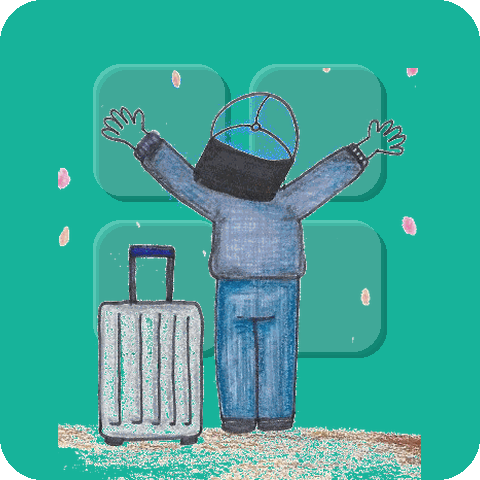
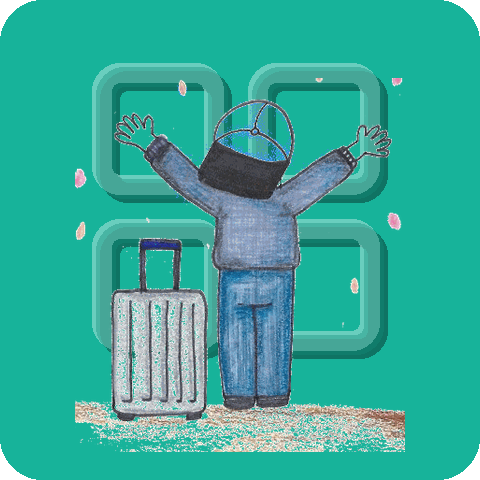
중복되던 사계절 표시 2개를 카드 1세트로 합침 + 로고 음각 테두리 강화
about.html '이름의 의미' 섹션에 같은 4계절이 두 번(뱃지 카드 목록 +
아래 삽화 갤러리) 나오던 중복을 하나로 합쳤다.

- .season 카드 하나에 삽화 이미지 + 계절 이름(좌상단, 굵은 글씨) +
  설명 문구(하단)를 전부 겹쳐 넣음. 이제 스크롤 한 번으로 다 보인다.
- 원형 번호 배지 제거 — 리드 문장에 '왼쪽 위부터 시계 방향'이라고
  이미 설명하고 있어 중복.
- 아래에 따로 있던 .an-illus 삽화 갤러리(같은 4계절, 다른 캡션)는
  완전히 삭제. 해당 CSS도 함께 정리.
- 음각 로고 마크를 '채운 사각형'에서 '두꺼운 테두리 사각형'으로
  다시 그림 — 실제 로고 형태(사각형 4개)를 닮게 하고, 하이라이트/
  그림자 오프셋도 키워 눌린 느�김을 또렷하게 함.
- 캐릭터 크기를 살짝 줄이고 아래 여백을 늘려, 위에 얹는 계절 이름과
  아래 문구가 캐릭터와 겹치지 않게 조정.

검증: 데스크톱 2x2(카드 312px)·모바일 2x2(162px) 모두 4장 정상 로드,
텍스트가 카드 경계 안에 위치, 중복 갤러리 요소 완전히 사라짐,
가로 스크롤 없음, 콘솔 에러 없음.

diff --git a/about.html b/about.html
@@ -9,7 +9,7 @@
   <link rel="alternate" hreflang="en" href="https://nrhoon777.github.io/ddobom-website/en/about.html" />
   <link rel="alternate" hreflang="x-default" href="https://nrhoon777.github.io/ddobom-website/about.html" />
   <link rel="icon" type="image/png" href="assets/img/logo-square.png" />
-  <link rel="stylesheet" href="assets/css/style.css?v=20260811a" />
+  <link rel="stylesheet" href="assets/css/style.css?v=20260811b" />
 </head>
 <body>
   <a href="#main" class="skip-link">본문 바로가기</a>
@@ -295,54 +295,35 @@
           <p class="an-logo__lead">로고의 <strong>네 개의 네모</strong>는 한 사람이 지나온 시간입니다.<br />왼쪽 위에서 시계 방향으로 읽습니다.</p>
           <ol class="season">
             <li class="season__it s-summer">
-              <span class="season__no" aria-hidden="true">1</span>
-              <img class="season__img" src="assets/img/season-summer.png" alt="" loading="lazy" />
-              <b>여름</b><span>암을 만나기 전,<br />가장 건강하던 날</span>
+              <img class="season__img" src="assets/img/season-summer.png"
+                   alt="서핑하는 캐릭터 — 암을 만나기 전, 가장 건강하던 날" loading="lazy" />
+              <span class="season__name">여름</span>
+              <span class="season__cap">암을 만나기 전,<br />가장 건강하던 날</span>
             </li>
             <li class="season__it s-fall">
-              <span class="season__no" aria-hidden="true">2</span>
-              <img class="season__img" src="assets/img/season-autumn.png" alt="" loading="lazy" />
-              <b>가을</b><span>진단을 받고,<br />혼자가 되던 날</span>
+              <img class="season__img" src="assets/img/season-autumn.png"
+                   alt="링거를 끌고 창밖을 보는 캐릭터 — 진단을 받고, 혼자가 되던 날" loading="lazy" />
+              <span class="season__name">가을</span>
+              <span class="season__cap">진단을 받고,<br />혼자가 되던 날</span>
             </li>
             <li class="season__it s-spring">
-              <span class="season__no" aria-hidden="true">4</span>
-              <img class="season__img" src="assets/img/season-spring.png" alt="" loading="lazy" />
-              <b>봄</b><span>그 겨울을 이겨내고<br />맞은 계절</span>
+              <img class="season__img" src="assets/img/season-spring.png"
+                   alt="여행 가방을 두고 두 팔 벌린 캐릭터 — 그 겨울을 이겨내고 맞은 계절" loading="lazy" />
+              <span class="season__name">봄</span>
+              <span class="season__cap">그 겨울을 이겨내고<br />맞은 계절</span>
             </li>
             <li class="season__it s-winter">
-              <span class="season__no" aria-hidden="true">3</span>
-              <img class="season__img" src="assets/img/season-winter.png" alt="" loading="lazy" />
-              <b>겨울</b><span>가장 혹독했던<br />치료의 시간</span>
+              <img class="season__img" src="assets/img/season-winter.png"
+                   alt="병상에 앉은 캐릭터 — 가장 혹독했던 치료의 시간" loading="lazy" />
+              <span class="season__name">겨울</span>
+              <span class="season__cap">가장 혹독했던<br />치료의 시간</span>
             </li>
           </ol>
+          <p class="an-illus-src">
+            여행 포토북 &lsquo;당신을 또 봅니다&rsquo;(2018)의 계절 챕터 삽화를 바탕으로 만들었습니다.<br />
+            &ldquo;암환우가 되기 전 활발했던 여름부터, 극복한 후 새로움의 봄까지.&rdquo;
+          </p>
         </div>
-
-        <!-- 2018년 여행 포토북의 계절 챕터 삽화. 로고의 뜻을 글이 아니라 그림으로 보여준다. -->
-        <figure class="an-illus">
-          <ol class="an-illus__row">
-            <li class="s-summer">
-              <img src="assets/img/ill-summer.jpg" alt="서핑, 등산, 비행기 — 여행 버킷리스트를 그린 그림" loading="lazy" />
-              <b>여름</b><span>가장 건강하던 날</span>
-            </li>
-            <li class="s-fall">
-              <img src="assets/img/ill-autumn.jpg" alt="링거를 끌고 창밖의 가을을 바라보는 그림" loading="lazy" />
-              <b>가을</b><span>진단을 받던 날</span>
-            </li>
-            <li class="s-winter">
-              <img src="assets/img/ill-winter.jpg" alt="병상에서 창밖의 눈사람을 바라보는 그림" loading="lazy" />
-              <b>겨울</b><span>가장 혹독했던 시간</span>
-            </li>
-            <li class="s-spring">
-              <img src="assets/img/ill-spring.jpg" alt="캐리어를 두고 벚꽃 아래 두 팔을 벌린 사람과 새싹 그림" loading="lazy" />
-              <b>봄</b><span>다시 떠나는 날</span>
-            </li>
-          </ol>
-          <figcaption>
-            여행 포토북 &lsquo;당신을 또 봅니다&rsquo;(2018)의 계절 챕터 삽화.<br />
-            &ldquo;포토북의 챕터는 암환우의 주기를 모티브로 제작했어요.
-            암환우가 되기 전 활발했던 여름부터, 극복한 후 새로움의 봄까지로.&rdquo;
-          </figcaption>
-        </figure>
 
         <p class="an-slogan">I SEE U AGAIN &mdash; 당신을 또 봅니다.</p>
       </div>
@@ -502,6 +483,6 @@
     </div>
   </footer>
 
-  <script src="assets/js/main.js?v=20260811a"></script>
+  <script src="assets/js/main.js?v=20260811b"></script>
 </body>
 </html>

diff --git a/assets/css/style.css b/assets/css/style.css
@@ -2275,21 +2275,28 @@ a.video-more { display: grid; place-items: center; text-align: center; color: #f
 .an-logo__mark { width: 150px; height: auto; margin: 0 auto var(--space-4); display: block; background: #fff; border-radius: var(--radius); padding: 10px 14px; }
 .an-logo__lead { text-align: center; font-size: 0.98rem; line-height: 1.8; color: rgba(255,255,255,0.82); margin-bottom: var(--space-6); }
 .an-logo__lead strong { color: #fff; }
-/* 로고와 같은 2×2 배치 — 순서 혼동을 없앤다 */
+/* 로고와 같은 2×2 배치 — 캐릭터 삽화 + 이름표 + 문구를 한 카드 안에 합쳤다.
+   (예전에는 이 배지 목록과 아래 삽화 갤러리가 같은 네 계절을 두 번 보여줘 중복이었다) */
 .season { display: grid; grid-template-columns: 1fr 1fr; gap: var(--space-4); list-style: none; padding: 0; margin: 0;
-  max-width: 480px; margin-inline: auto; }
-.season__it { position: relative; padding: 0; text-align: center; }
-.season__img { width: 100%; aspect-ratio: 1 / 1; border-radius: var(--radius-lg);
-  display: block; margin-bottom: var(--space-3); box-shadow: var(--shadow); }
-.season__no { position: absolute; top: -10px; left: -10px; z-index: 1;
-  width: 26px; height: 26px; border-radius: 50%; display: grid; place-items: center;
-  font-size: 0.8rem; font-weight: 800; color: #fff; box-shadow: 0 2px 6px rgba(0,0,0,0.35); }
-.s-summer .season__no { background: #3f8edc; }
-.s-fall   .season__no { background: #f06f2c; }
-.s-winter .season__no { background: #8455c9; }
-.s-spring .season__no { background: #17b39a; }
-.season__it b { display: block; font-size: 1.05rem; color: #fff; margin-bottom: 4px; }
-.season__it span { display: block; font-size: 0.85rem; line-height: 1.6; color: rgba(255,255,255,0.72); }
+  max-width: 640px; margin-inline: auto; }
+.season__it { position: relative; border-radius: var(--radius-lg); overflow: hidden;
+  aspect-ratio: 1 / 1; box-shadow: var(--shadow); }
+.season__img { position: absolute; inset: 0; width: 100%; height: 100%; object-fit: cover; display: block; }
+.season__name {
+  position: absolute; top: 14px; left: 16px; z-index: 1;
+  font-family: var(--font-head); font-weight: 900; letter-spacing: -0.02em;
+  font-size: clamp(1.5rem, 4.2vw, 2.1rem); color: #fff;
+  text-shadow: 0 2px 3px rgba(0,0,0,0.35), 0 0 22px rgba(0,0,0,0.25);
+}
+.season__cap {
+  position: absolute; left: 16px; right: 16px; bottom: 14px; z-index: 1;
+  font-weight: 700; font-size: 0.92rem; line-height: 1.5; color: #fff;
+  text-shadow: 0 1px 3px rgba(0,0,0,0.4), 0 0 14px rgba(0,0,0,0.3);
+}
+.an-illus-src {
+  max-width: 640px; margin: var(--space-5) auto 0; text-align: center;
+  font-size: 0.85rem; line-height: 1.8; color: rgba(255,255,255,0.65);
+}
 
 @media (max-width: 1023px) {
   .flow { grid-template-columns: 1fr; }
@@ -2318,7 +2325,9 @@ a.video-more { display: grid; place-items: center; text-align: center; color: #f
   .iceberg__art { max-width: 220px; margin: 0 auto; order: -1; }
   .iceberg .iceberg__quote { text-align: center; }
   .an-quote { font-size: 1.35rem; }
-  .season { max-width: 360px; }
+  .season { max-width: 420px; gap: 12px; }
+  .season__name { font-size: 1.35rem; top: 10px; left: 12px; }
+  .season__cap { font-size: 0.8rem; left: 12px; right: 12px; bottom: 10px; }
 }
 
 /* ===================================================================
@@ -3132,43 +3141,15 @@ a.lt-item:hover { transform: translateY(-3px); border-color: var(--c); box-shado
 }
 
 /* ===========================================================
-   66. 포토북 계절 삽화
-   2018년 여행 포토북의 챕터 삽화. 로고의 뜻을 글 대신 그림으로 보여준다.
+   66. (구) 포토북 계절 삽화 갤러리 — .season 카드에 흡수되어 삭제됨.
+   .lt-item__thumb--ill(편지 아카이브 썸네일)만 남겨둔다.
    =========================================================== */
-.an-illus { margin: var(--space-9) auto 0; max-width: 1000px; }
-.an-illus__row {
-  list-style: none; margin: 0; padding: 0;
-  display: grid; grid-template-columns: repeat(4, 1fr); gap: var(--space-4);
-}
-.an-illus__row li { text-align: center; }
-.an-illus__row img {
-  width: 100%; aspect-ratio: 4 / 3; object-fit: contain;
-  background: #fff; border-radius: 16px; padding: 8px;
-  border: 1px solid var(--color-line);
-  border-bottom: 4px solid currentColor;
-}
-.an-illus__row .s-summer { color: var(--brand-blue); }
-.an-illus__row .s-fall   { color: var(--brand-orange); }
-.an-illus__row .s-winter { color: var(--brand-purple); }
-.an-illus__row .s-spring { color: var(--brand-green); }
-.an-illus__row b {
-  display: block; margin-top: 12px;
-  font-size: 1rem; font-weight: 800; color: currentColor;
-}
-.an-illus__row span { display: block; margin-top: 2px; font-size: 0.86rem; color: #6b7772; }
-.an-illus figcaption {
-  margin-top: var(--space-6); text-align: center; word-break: keep-all;
-  font-size: 0.88rem; line-height: 1.75; color: #6b7772;
-}
 
 /* 편지 아카이브 썸네일에 삽화를 쓸 때 — 잘리지 않게 여백을 준다 */
 .lt-item__thumb--ill { display: grid; place-items: center; background: #fff; padding: 14px; }
 .lt-item__thumb--ill img { width: 100%; height: auto; object-fit: contain; }
 
 @media (max-width: 767px) {
-  .an-illus__row { grid-template-columns: repeat(2, 1fr); gap: var(--space-3); }
-  .an-illus__row b { font-size: 0.92rem; }
-  .an-illus__row span { font-size: 0.8rem; }
   .lt-item__thumb--ill { padding: 10px; }
 }
 

diff --git a/letter-2026-summer.html b/letter-2026-summer.html
@@ -7,7 +7,7 @@
   <meta name="description" content="여름은 다들 떠나는 계절입니다. 그 여름에 병실에 있는 사람에게 보내는 편지. 페루 마추픽추, 산정특례 30일 규칙과 연말정산 장애인 공제, 그리고 2025년에 한 일." />
   <link rel="alternate" hreflang="ko" href="https://nrhoon777.github.io/ddobom-website/letter-2026-summer.html" />
   <link rel="icon" type="image/png" href="assets/img/logo-square.png" />
-  <link rel="stylesheet" href="assets/css/style.css?v=20260811a" />
+  <link rel="stylesheet" href="assets/css/style.css?v=20260811b" />
 </head>
 <body>
   <a href="#main" class="skip-link">본문 바로가기</a>
@@ -339,6 +339,6 @@
     </div>
   </footer>
 
-  <script src="assets/js/main.js?v=20260811a"></script>
+  <script src="assets/js/main.js?v=20260811b"></script>
 </body>
 </html>

diff --git a/letters.html b/letters.html
@@ -7,7 +7,7 @@
   <meta name="description" content="계절마다 한 번, 네 번에 걸쳐 한 해를 도는 또봄의 편지. 여름·가을·겨울·봄, 또봄 로고의 네 네모와 같은 순서입니다." />
   <link rel="alternate" hreflang="ko" href="https://nrhoon777.github.io/ddobom-website/letters.html" />
   <link rel="icon" type="image/png" href="assets/img/logo-square.png" />
-  <link rel="stylesheet" href="assets/css/style.css?v=20260811a" />
+  <link rel="stylesheet" href="assets/css/style.css?v=20260811b" />
 </head>
 <body>
   <a href="#main" class="skip-link">본문 바로가기</a>
@@ -164,6 +164,6 @@
     </div>
   </footer>
 
-  <script src="assets/js/main.js?v=20260811a"></script>
+  <script src="assets/js/main.js?v=20260811b"></script>
 </body>
 </html>

diff --git a/travel-peru.html b/travel-peru.html
@@ -7,7 +7,7 @@
   <meta name="description" content="이카, 나스카, 마추픽추, 쿠스코, 우유니, 69호수. 회복기의 몸을 기준으로 고도순으로 정리한 페루 여행 안내입니다." />
   <link rel="alternate" hreflang="ko" href="https://nrhoon777.github.io/ddobom-website/travel-peru.html" />
   <link rel="icon" type="image/png" href="assets/img/logo-square.png" />
-  <link rel="stylesheet" href="assets/css/style.css?v=20260811a" />
+  <link rel="stylesheet" href="assets/css/style.css?v=20260811b" />
 </head>
 <body>
   <a href="#main" class="skip-link">본문 바로가기</a>
@@ -216,6 +216,6 @@
     </div>
   </footer>
 
-  <script src="assets/js/main.js?v=20260811a"></script>
+  <script src="assets/js/main.js?v=20260811b"></script>
 </body>
 </html>

diff --git a/story-bucketbook.html b/story-bucketbook.html
@@ -7,7 +7,7 @@
   <meta name="description" content="말기암을 이겨낸 뒤 떠난 80일간의 여행. 그 사진으로 만든 포토북을 병원에 전한 2018년 프로젝트 기록입니다." />
   <link rel="alternate" hreflang="ko" href="https://nrhoon777.github.io/ddobom-website/story-bucketbook.html" />
   <link rel="icon" type="image/png" href="assets/img/logo-square.png" />
-  <link rel="stylesheet" href="assets/css/style.css?v=20260811a" />
+  <link rel="stylesheet" href="assets/css/style.css?v=20260811b" />
 </head>
 <body>
   <a href="#main" class="skip-link">본문 바로가기</a>
@@ -238,6 +238,6 @@
     </div>
   </footer>
 
-  <script src="assets/js/main.js?v=20260811a"></script>
+  <script src="assets/js/main.js?v=20260811b"></script>
 </body>
 </html>

diff --git a/index.html b/index.html
@@ -12,7 +12,7 @@
   <link rel="alternate" hreflang="en" href="https://nrhoon777.github.io/ddobom-website/en/index.html" />
   <link rel="alternate" hreflang="x-default" href="https://nrhoon777.github.io/ddobom-website/index.html" />
   <link rel="icon" type="image/png" href="assets/img/logo-square.png" />
-  <link rel="stylesheet" href="assets/css/style.css?v=20260811a" />
+  <link rel="stylesheet" href="assets/css/style.css?v=20260811b" />
 </head>
 <body>
   <a href="#main" class="skip-link">본문 바로가기</a>
@@ -448,7 +448,7 @@
     </div>
   </footer>
 
-  <script src="assets/js/main.js?v=20260811a"></script>
+  <script src="assets/js/main.js?v=20260811b"></script>
   <script type="module" src="assets/js/news-loader.js?v=20260807f"></script>
 </body>
 </html>

diff --git a/story-cheerup.html b/story-cheerup.html
@@ -7,7 +7,7 @@
   <meta name="description" content="암 경험자와 시민이 한자리에서 이야기하고 노래하는 토크·싱 콘서트. 2023년부터 네 번 열린 기록입니다." />
   <link rel="alternate" hreflang="ko" href="https://nrhoon777.github.io/ddobom-website/story-cheerup.html" />
   <link rel="icon" type="image/png" href="assets/img/logo-square.png" />
-  <link rel="stylesheet" href="assets/css/style.css?v=20260811a" />
+  <link rel="stylesheet" href="assets/css/style.css?v=20260811b" />
 </head>
 <body>
   <a href="#main" class="skip-link">본문 바로가기</a>
@@ -167,6 +167,6 @@
     </div>
   </footer>
 
-  <script src="assets/js/main.js?v=20260811a"></script>
+  <script src="assets/js/main.js?v=20260811b"></script>
 </body>
 </html>

diff --git a/story-gift-2020.html b/story-gift-2020.html
@@ -7,7 +7,7 @@
   <meta name="description" content="코로나로 만남이 어려웠던 2020년 겨울, 투병 중인 청년에게 여행 포토북을 보낸 캠페인 기록입니다." />
   <link rel="alternate" hreflang="ko" href="https://nrhoon777.github.io/ddobom-website/story-gift-2020.html" />
   <link rel="icon" type="image/png" href="assets/img/logo-square.png" />
-  <link rel="stylesheet" href="assets/css/style.css?v=20260811a" />
+  <link rel="stylesheet" href="assets/css/style.css?v=20260811b" />
 </head>
 <body>
   <a href="#main" class="skip-link">본문 바로가기</a>
@@ -133,6 +133,6 @@
     </div>
   </footer>
 
-  <script src="assets/js/main.js?v=20260811a"></script>
+  <script src="assets/js/main.js?v=20260811b"></script>
 </body>
 </html>

diff --git a/en/story-bucketbook.html b/en/story-bucketbook.html
@@ -8,7 +8,7 @@
   <link rel="alternate" hreflang="ko" href="https://nrhoon777.github.io/ddobom-website/story-bucketbook.html" />
   <link rel="alternate" hreflang="en" href="https://nrhoon777.github.io/ddobom-website/en/story-bucketbook.html" />
   <link rel="icon" type="image/png" href="../assets/img/logo-square.png" />
-  <link rel="stylesheet" href="../assets/css/style.css?v=20260811a" />
+  <link rel="stylesheet" href="../assets/css/style.css?v=20260811b" />
 </head>
 <body>
   <a href="#main" class="skip-link">Skip to content</a>
@@ -273,6 +273,6 @@
     </div>
   </footer>
 
-  <script src="../assets/js/main.js?v=20260811a"></script>
+  <script src="../assets/js/main.js?v=20260811b"></script>
 </body>
 </html>

diff --git a/en/story-gift-2020.html b/en/story-gift-2020.html
@@ -8,7 +8,7 @@
   <link rel="alternate" hreflang="ko" href="https://nrhoon777.github.io/ddobom-website/story-gift-2020.html" />
   <link rel="alternate" hreflang="en" href="https://nrhoon777.github.io/ddobom-website/en/story-gift-2020.html" />
   <link rel="icon" type="image/png" href="../assets/img/logo-square.png" />
-  <link rel="stylesheet" href="../assets/css/style.css?v=20260811a" />
+  <link rel="stylesheet" href="../assets/css/style.css?v=20260811b" />
 </head>
 <body>
   <a href="#main" class="skip-link">Skip to content</a>
@@ -174,6 +174,6 @@
     </div>
   </footer>
 
-  <script src="../assets/js/main.js?v=20260811a"></script>
+  <script src="../assets/js/main.js?v=20260811b"></script>
 </body>
 </html>

diff --git a/en/story-cheerup.html b/en/story-cheerup.html
@@ -8,7 +8,7 @@
   <link rel="alternate" hreflang="ko" href="https://nrhoon777.github.io/ddobom-website/story-cheerup.html" />
   <link rel="alternate" hreflang="en" href="https://nrhoon777.github.io/ddobom-website/en/story-cheerup.html" />
   <link rel="icon" type="image/png" href="../assets/img/logo-square.png" />
-  <link rel="stylesheet" href="../assets/css/style.css?v=20260811a" />
+  <link rel="stylesheet" href="../assets/css/style.css?v=20260811b" />
 </head>
 <body>
   <a href="#main" class="skip-link">Skip to content</a>
@@ -205,6 +205,6 @@
     </div>
   </footer>
 
-  <script src="../assets/js/main.js?v=20260811a"></script>
+  <script src="../assets/js/main.js?v=20260811b"></script>
 </body>
 </html>
